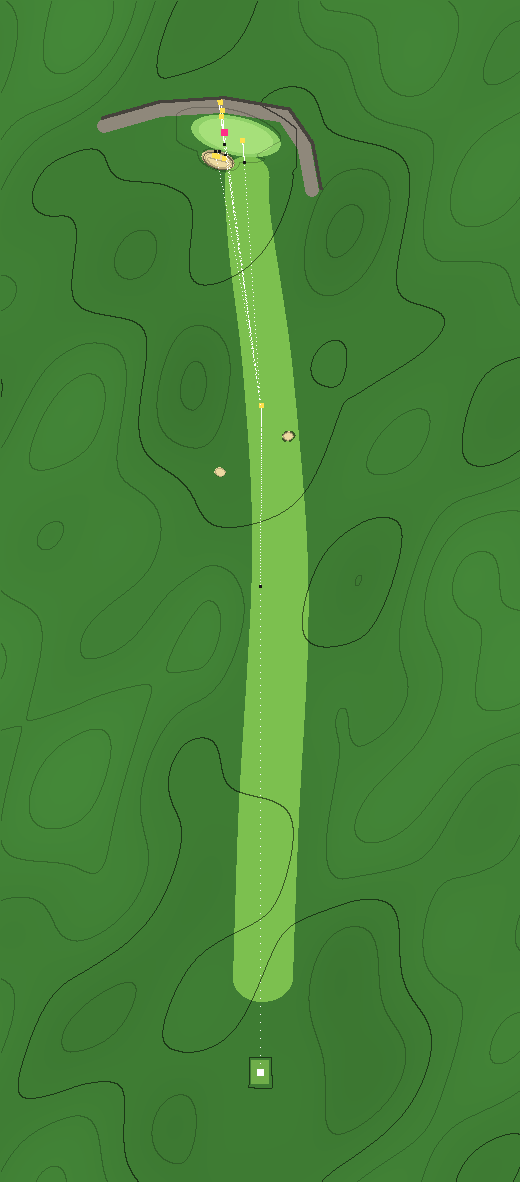
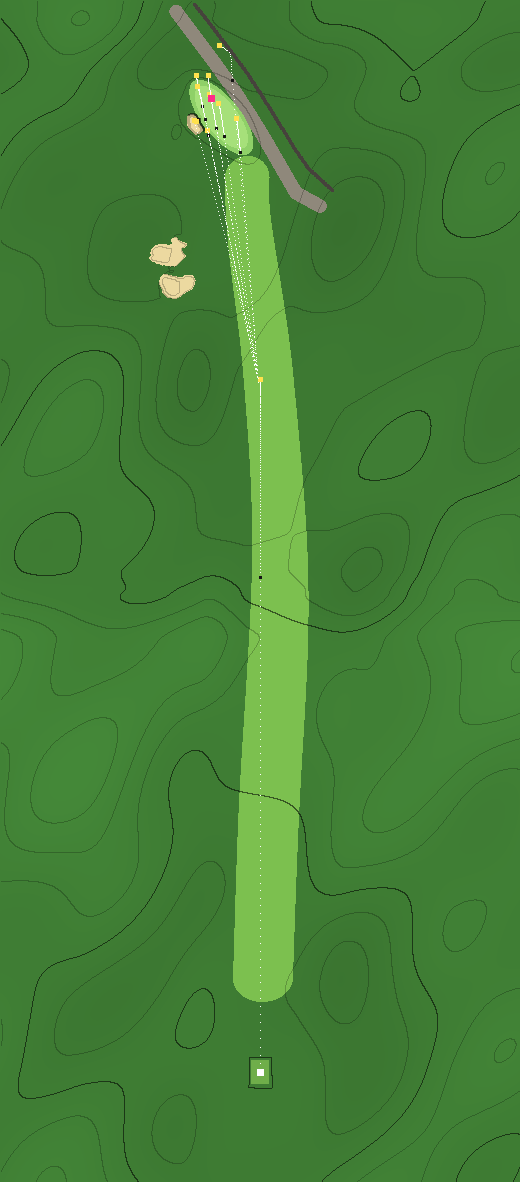
St Andrews 17: the Road Hole from the Scottish lidar
Phase 5 50 cm DTM, framed from the owner's green and tee pins. The Road
Hole bunker is the lidar's 5 m pot at the green's left end, deepened to
2.6 (lip 0.6) to stand in for its revetted face (owner's choice). The
green ellipse is laid along the lidar's plateau with the pin tucked
behind the bunker (owner's choice); the road and wall follow the lidar.
Scholar's and Progressing replace two invented pots. Every check is
re-aimed (spec §6). Highest hop over ten seeds 4.76 -> 2.63: the hop
guard in tests/ball.test.js passes again.

Claude-Session: https://claude.ai/code/session_01L6C3mgW8iMSD9JZeturm7K

diff --git a/tests/hole-checks.js b/tests/hole-checks.js
@@ -90,26 +90,26 @@ module.exports = {
   },
 
   'standrews-17': {
-    challenge: 'A long second into a narrow green on firm links turf: the deep Road Hole bunker eats into the front-left (a ball in it cannot play out forwards) and a hard road and a stone wall sit behind. Land it short and let it run; fly the pin and the road has it.',
+    challenge: 'A long second into a narrow green on firm links turf, angled from front-right to back-left along the road: the deep Road Hole bunker eats into its left end (a ball in it cannot play out forwards), the Sunday pin is tucked behind it, and a hard road and a stone wall sit behind. Land it short and let it run; fly the pin and it runs off the back.',
     shots: [
       { name: 'a pure drive runs out on the firm fairway and leaves a full iron', shot: { club: 'Hammer', at: [0, 300], power: 1 }, expect: { end: 'rest', surf: ['FAIRWAY'], minToPin: 125, maxToPin: 150 } },
-      { name: 'an iron flown right at the pin runs through the green onto the road', shot: { from: [0, 334], club: 'Iron' }, expect: { end: 'rest', surf: ['ROAD'] } },
-      { name: 'carrying the bunker and landing just over it holds the green', shot: { from: [0, 334], club: 'Iron', at: [18, 464] }, expect: { surf: ['GREENS', 'FRINGE'], maxToPin: 10 } },
-      { name: 'the same shot pulled a little drops into the Road Hole bunker', shot: { from: [0, 334], club: 'Iron', at: [18, 464], offset: -0.25 }, expect: { end: 'rest', surf: ['SAND'] } },
-      { name: 'into an 18 mph headwind the same carry falls short, into the bunker', shot: { from: [0, 334], club: 'Iron', at: [18, 464], wind: { mph: 18, dir: 'head' } }, expect: { end: 'rest', surf: ['SAND'] } },
-      { name: 'with an 18 mph tailwind it flies the green into the rough behind', shot: { from: [0, 334], club: 'Iron', at: [18, 464], wind: { mph: 18, dir: 'tail' } }, expect: { end: 'rest', surf: ['ROUGH', 'ROAD'] } },
-      { name: 'a 3-wood run into the back of the green strikes the stone wall and kicks back onto the road', shot: { from: [0, 334], club: '3-Wood', at: [18, 470] }, expect: { end: 'rest', surf: ['ROAD'], wall: true } },
-      { name: 'from the middle of the bunker a wedge at the pin cannot get out forwards', shot: { from: [22, 456], club: 'Wedge' }, expect: { end: 'rest', surf: ['SAND'] } },
-      { name: 'the safe line to the wide front of the green holds it', shot: { from: [0, 334], club: 'Iron', at: [8, 455] }, expect: { surf: ['GREENS'] } },
+      { name: 'an iron flown at the pin runs through the green and off the back', shot: { from: [1, 345], club: 'Iron' }, expect: { end: 'rest', surf: ['ROAD', 'ROUGH'] } },
+      { name: 'landed short of the tucked pin and run up, an iron holds the green', shot: { from: [1, 345], club: 'Iron', at: [22, 472] }, expect: { surf: ['GREENS', 'FRINGE'], maxToPin: 10 } },
+      { name: 'the attack over the bunker\'s edge, pulled a little, drops into the Road Hole bunker', shot: { from: [1, 345], club: 'Iron', at: [27.5, 476.5], offset: -0.25 }, expect: { end: 'rest', surf: ['SAND'] } },
+      { name: 'into an 18 mph headwind the attack comes up short of the green', shot: { from: [1, 345], club: 'Iron', at: [27.5, 476.5], wind: { mph: 18, dir: 'head' } }, expect: { end: 'rest', surf: ['FRINGE', 'ROUGH', 'SAND'], minToPin: 10 } },
+      { name: 'with an 18 mph tailwind it flies the green into the rough behind', shot: { from: [1, 345], club: 'Iron', at: [27.5, 476.5], wind: { mph: 18, dir: 'tail' } }, expect: { end: 'rest', surf: ['ROUGH', 'ROAD'] } },
+      { name: 'a 3-wood landed on the road behind the green strikes the stone wall', shot: { from: [1, 345], club: '3-Wood', at: [14, 496] }, expect: { end: 'rest', surf: ['ROAD', 'ROUGH'], wall: true } },
+      { name: 'from the middle of the bunker a wedge at the pin cannot get out forwards', shot: { from: [32.5, 474.5], club: 'Wedge' }, expect: { end: 'rest', surf: ['SAND'] } },
+      { name: 'the safe line to the wide front of the green holds it', shot: { from: [1, 345], club: 'Iron', at: [10, 460] }, expect: { surf: ['GREENS'] } },
     ],
     strategies: [
       // no per-hole lie costs: the baseline's recovery term charges the Road Hole bunker for its deep face (a ball in it cannot play out forwards, see the shot above)
-      { name: 'the second shot: fly the pin, attack the tucked pin over the bunker, or play to the middle', plans: [
-          { name: 'fly', shot: { from: [0, 334], club: 'Iron' } },
-          { name: 'attack', shot: { from: [0, 334], club: 'Iron', at: [18, 464] } },
-          { name: 'middle', shot: { from: [0, 334], club: 'Iron', at: [8, 455] } } ],
+      { name: 'the second shot: fly the tucked pin, attack it over the bunker\'s edge, or play to the middle and run up', plans: [
+          { name: 'fly', shot: { from: [1, 345], club: 'Iron' } },
+          { name: 'attack', shot: { from: [1, 345], club: 'Iron', at: [27.5, 476.5] } },
+          { name: 'middle', shot: { from: [1, 345], club: 'Iron', at: [18, 468] } } ],
         expect: [
-          ['flying the pin puts a sharp player on the road more often than not', r => (r.fly.sharp.surfs.ROAD || 0) > 10],
+          ['flying the pin runs off the back: a sharp player holds the green less than half the time', r => (r.fly.sharp.surfs.GREENS || 0) * 2 < r.fly.sharp.n],
           ['it is the worst plan for both players', r => ['sharp', 'shaky'].every(k => r.fly[k].score > r.attack[k].score && r.fly[k].score > r.middle[k].score)],
           ['attacking the tucked pin puts even a sharp player in the bunker at least one time in five', r => (r.attack.sharp.surfs.SAND || 0) >= 4],
           ['the middle of the green is the play: a sharp player holds it four times in five and it beats the attack', r => (r.middle.sharp.surfs.GREENS || 0) >= 17 && r.middle.sharp.score < r.attack.sharp.score],

diff --git a/index.html b/index.html
@@ -547,14 +547,21 @@ const HOLES=[
   seed:3.3,roll:0.8,ridge:1.5,
   route:[[0,0],[120,-4],[250,-10],[350,-4],[430,6],[467,6]],
   fw:[[40,15],[200,15],[300,13],[400,12],[438,11],[466,12]],fairway:[[35,458]],
-  green:{x:12,z:468,rx:19,rz:8,rot:0.22},pin:{x:18,z:470},tilt:{x:0.012,z:0.02},
+  // no aerial yet: the ellipse is laid along the lidar's plateau (front-right to back-left, its back edge 2-3 yd short of the drop to the road); tilt is the lidar's plane over it
+  green:{x:19.3,z:477.3,rx:19,rz:8,rot:0.9},pin:{x:24.5,z:487.1},tilt:{x:-0.0124,z:0.0007},   // the pin tucked on the left end, behind the Road Hole bunker
   features:[
-    {type:'rise',area:{x:12,z:468,rx:21,rz:10,rot:0.22},dh:1.1,edge:9},       // a narrow plateau green: the front and sides fall away to the apron
-    {type:'cover',area:{pts:[[-26,441],[-22,463],[-12,478],[18,483],[50,481],[78,473]],w:3.4},surf:'ROAD',over:['ROUGH','FAIRWAY']},  // the road runs round the right and along the back of the green
+    // heights along the line from the Scottish lidar (Phase 5, 50 cm; lidar.py build, docs/holes/trace/standrews-17.json): links ground within a yard of flat
+    {type:'ramp',z0:0,z1:48,dh:-0.6},{type:'ramp',z0:48,z1:215.8,dh:1.03},{type:'ramp',z0:215.8,z1:239.8,dh:-1.46},{type:'ramp',z0:239.8,z1:251.8,dh:-0.35},
+    {type:'ramp',z0:251.8,z1:299.8,dh:0.47},{type:'ramp',z0:299.8,z1:431.7,dh:-0.82},{type:'ramp',z0:479.6,z1:503.6,dh:-0.82},{type:'ramp',z0:503.6,z1:527.6,dh:0.92},
+    {type:'rise',area:{x:19.3,z:477.3,rx:21,rz:10,rot:0.9},dh:0.8,edge:9},       // a narrow plateau green, 0.7 m above its apron (lidar; build's 431.7-479.6 ramp, +1, is this rise): the front and sides fall away
+    {type:'cover',area:{pts:[[-30,433],[-18,439.5],[-10.1,453.2],[-2.2,466.9],[6,480.2],[14.6,493.2],[23.5,505.7],[32.7,517.9],[41.9,530.2]],w:3.4},surf:'ROAD',over:['ROUGH','FAIRWAY']},  // the road behind the green, on the lidar's flat strip below the green's back edge
   ],
-  obstacles:[{type:'wall',pts:[[-30.3,441.8],[-26.1,464.6],[-14.4,481.7],[17.8,487.4],[50.7,485.3],[79.2,477.2]],t:1.2,h:2.2,e:0.3}],   // the stone wall behind the road
+  obstacles:[{type:'wall',pts:[[-36,441],[-24,452],[-17.4,461.4],[-9.2,474.7],[-0.9,488.1],[7.6,501],[16.8,513.2],[26.1,525.4],[33,534]],t:1.2,h:2.2,e:0.3}],   // the stone wall beyond the road, at the foot of the lidar's rise
   play:{firm:1.5,wind:[8,20],windPush:1.6,greens:{speed:1.15,firm:1.3}},
-  bunkers:[{x:21,z:456,rx:9,rz:4.8,rot:0.3,depth:2.8,lip:0.9},{x:20,z:300,rx:3,rz:2.4,rot:0.2,depth:1.4,lip:0.4},{x:-14,z:318,rx:3,rz:2.4,rot:-0.2,depth:1.4,lip:0.4}],
+  // bunkers from the lidar: the Road Hole bunker (place and shape from the lidar, a 5 m pot 1.4 m below the green; deepened to 2.6 with a 0.6 lip to stand in for its revetted face, §5), and Scholar's and Progressing short-left (named on the yardage book)
+  bunkers:[{pts:[[34.5,479.2],[32.5,478.8],[31.2,477],[30.2,476.5],[30.2,474.5],[28.2,471.5],[28.2,471],[30.5,468.8],[31.5,468.8],[32,468.2],[36.2,472],[36.2,473],[36.8,473.5],[36.2,474],[36.8,474.5],[36.8,478]],depth:2.6,lip:0.6},
+           {pts:[[46.5,399.8],[45.5,398.8],[41.5,398.2],[41,397.8],[39,397.8],[37.5,398.8],[34,398.8],[33,398.2],[31.8,396],[32.8,392.5],[34,390.8],[36.5,389.8],[39,387.8],[42,386.2],[46.5,386.8],[49.2,389.5],[49.2,391],[50.8,394],[50.8,395.5],[49.8,398],[48.5,399.2],[47,399.2]],depth:1.17,lip:0.25},
+           {pts:[[43,417.8],[41.5,417.8],[40.5,416.2],[36.2,414.5],[36.2,413],[37.5,411.8],[38.8,411.5],[38.2,410],[36.2,408],[41,403.2],[43,402.2],[43.5,402.8],[45,402.2],[45.5,402.8],[47.5,402.8],[48,403.2],[48.5,402.8],[50.5,403.8],[52,403.8],[53,404.8],[54,404.8],[55.8,406.5],[55.8,407.5],[54.8,408.5],[55.2,409],[54.8,411.5],[52.5,413.8],[51.5,413.8],[51,414.2],[46.5,414.2],[46,413.8],[44.5,414.2],[44.2,414.5],[45.2,416]],depth:0.72,lip:0.25}],
   water:[],
   clubhouse:{x:-95,z:120,rot:0},
   bbox:{x0:-130,x1:130,z0:-55,z1:536},

diff --git a/tests/holes.test.js b/tests/holes.test.js
@@ -256,7 +256,7 @@ test('recovery: short-sided means a pin near the edge the ball is on; it needs a
 test('recovery: on the real holes, the Road Hole bunker pays the most, ordinary bunkers and fairway lay-ups almost nothing', () => {
   course.prepHole(idx('standrews-17'));
   const road = course.BUNKERS.find(b => b.depth > 2);
-  assert.ok(recovery(course, { x: road.x, z: road.z }, 'SAND') >= 0.9 * RECOVERY.cap, 'a ball in the pot bunker whose face is the whole story');
+  assert.ok(recovery(course, { x: road.x, z: road.z }, 'SAND') >= 0.7 * RECOVERY.cap, 'a ball in the pot bunker whose face is the whole story (0.75 of the cap since the lidar rebuild: a 5 m pot, not the old 18 yd bowl)');
   course.prepHole(idx('pebble-8'));
   const bunker = (x, z) => course.BUNKERS.find(b => b.x === x && b.z === z);
   const near = (x, z) => course.BUNKERS.reduce((a, b) => Math.hypot(b.x - x, b.z - z) < Math.hypot(a.x - x, a.z - z) ? b : a);
@@ -270,14 +270,14 @@ test('recovery: on the real holes, the Road Hole bunker pays the most, ordinary 
 
 test('recovery: expected() adds it for balls off the green, opts.recovery=false removes it, and evaluate() reports the mean charge', () => {
   course.prepHole(idx('standrews-17'));
-  const shot = { from: [0, 334], club: 'Iron', at: [18, 464] };
+  const shot = { from: [1, 345], club: 'Iron', at: [27.5, 476.5] };
   const on = evaluate(course, shot, 0.55, 9), off = evaluate(course, shot, 0.55, 9, null, { recovery: false });
   assert.ok(on.recovery > 0 && off.recovery === 0);
   assert.equal(on.hazard, 0);
   assert.ok(Math.abs((on.score - off.score) - on.recovery) < 1e-9, 'with no water or holed balls the score differs by exactly the mean charge');
-  const r = { end: 'rest', surf: 'SAND', p: { x: 21, z: 456 }, toPin: Math.hypot(21 - course.PIN.x, 456 - course.PIN.z) };
-  assert.ok(expected(course, r, { x: 0, z: 334 }) > expected(course, r, { x: 0, z: 334 }, undefined, { recovery: false }));
-  assert.equal(expected(course, { ...r, surf: 'GREENS' }, { x: 0, z: 334 }), expected(course, { ...r, surf: 'GREENS' }, { x: 0, z: 334 }, undefined, { recovery: false }));
+  const r = { end: 'rest', surf: 'SAND', p: { x: 32.5, z: 474.5 }, toPin: Math.hypot(32.5 - course.PIN.x, 474.5 - course.PIN.z) };   // in the Road Hole bunker
+  assert.ok(expected(course, r, { x: 1, z: 345 }) > expected(course, r, { x: 1, z: 345 }, undefined, { recovery: false }));
+  assert.equal(expected(course, { ...r, surf: 'GREENS' }, { x: 1, z: 345 }), expected(course, { ...r, surf: 'GREENS' }, { x: 1, z: 345 }, undefined, { recovery: false }));
 });
 
 test('rolling start: a ball landing on a steep slope never rolls faster than the model\'s speed cap', () => {

diff --git a/tests/tools.test.js b/tests/tools.test.js
@@ -15,7 +15,7 @@ const node = (tool, argv) => spawnSync(process.execPath, [path.join(__dirname, '
 const tmp = fs.mkdtempSync(path.join(os.tmpdir(), 'fred-tools-'));
 
 test('probe: prints what hole-play.js plays, as JSON, for one shot or several; bad input is refused', () => {
-  const shots = [{ from: [0, 334], club: 'Iron', at: [18, 464] }, { from: [0, 334], club: 'Iron', at: [18, 464], offset: -0.25 }];
+  const shots = [{ from: [1, 345], club: 'Iron', at: [27.5, 476.5] }, { from: [1, 345], club: 'Iron', at: [27.5, 476.5], offset: -0.25 }];
   const r = node('probe.js', ['standrews-17', JSON.stringify(shots), '--json']);
   assert.equal(r.status, 0, r.stderr);
   const rows = JSON.parse(r.stdout);

diff --git a/docs/holes/standrews-17.md b/docs/holes/standrews-17.md
@@ -6,7 +6,7 @@
 |---|---|
 | Real hole | St Andrews Old Course, hole 17, the Road Hole |
 | Par / yardage (real) | Par 4, about 495 yards (lengthened for recent Opens) |
-| Par / yardage (game) | Par 4, 470 yards tee → pin. A pure driver leaves about 138 yards on the firm fairway; reaching in two takes a driver and a long second. |
+| Par / yardage (game) | Par 4, 488 yards tee → pin since the lidar rebuild moved the pin behind the bunker (470 before; the card still says 470). A pure driver leaves about 138 yards on the firm fairway; reaching in two takes a driver and a long second. |
 | Sources | See below |
 
 - [golf.com — Inside the Old Course's Road Hole](https://golf.com/travel/inside-oid-course-road-hole-st-andrews/?amp=1)
@@ -42,11 +42,13 @@
 
 | Real feature | Game expression | Parameters | What it does to play |
 |---|---|---|---|
-| Road Hole Bunker | bunker | `depth:2.8, lip:0.9`, front-left, overlapping the green edge | Very deep; escapes sideways but not forwards |
-| The road | **new** `ROAD` surface via a `cover` band | around the right and back of the green, `w:3.4`, `over:['ROUGH','FAIRWAY']` | Hard and fast: balls skip and roll out |
-| The wall | **new** `wall` obstacle (generic `OBSTACLES` registry) | behind the road, `t:1.2, h:2.2, e:0.3` | Stops balls in flight and on the roll; kicks them back |
+| Road Hole Bunker | bunker, outline from the lidar (a 5 m pot cutting into the green's left end) | `depth:2.6, lip:0.6` (§5) | Very deep; escapes sideways but not forwards |
+| The green | ellipse laid along the lidar's plateau (no aerial yet) | 38 × 16 yd, rotated 0.9 rad: front-right to back-left along the road; `tilt` from the lidar plane (1.2 % down to the left) | A long, narrow, angled target |
+| Heights | `ramp`s from the lidar and a 0.8 yd `rise` under the green | links ground within a yard of flat; the green 0.7 m above its apron | |
+| The road | **new** `ROAD` surface via a `cover` band | on the lidar's flat strip below the green's back edge, from the right of the green diagonally behind it, `w:3.4`, `over:['ROUGH','FAIRWAY']` | Hard and fast: balls skip and roll out |
+| The wall | **new** `wall` obstacle (generic `OBSTACLES` registry) | at the foot of the lidar's rise beyond the road, `t:1.2, h:2.2, e:0.3` | Stops balls in flight and on the roll; kicks them back |
 | Firm links turf and wind | play profile | `firm:1.5, wind:[8,20], windPush:1.6, greens:{speed:1.15, firm:1.3}` | Run-out everywhere |
-| Fairway pot bunkers | bunkers | two small, at (20,300) and (-14,318) | Positional |
+| Scholar's and Progressing bunkers | bunkers, outlines from the lidar (named on the yardage book) | short-left of the green, 1.0 and 0.6 m deep | Positional; the two invented fairway pots are gone (no hollows there) |
 | Dunes | `theme:'links'` backdrop | | Golden dunes behind |
 
 **Capability gaps**: the blind drive over the hotel/sheds corner and the out-of-bounds line along the hotel are not expressed. The game has no blind shots and no OB along a side, so the drive is a plain fairway shot.
@@ -55,33 +57,34 @@
 
 | Characteristic | Real | Game | Why this amount |
 |---|---|---|---|
-| Length | 495 yd | 470 yd | A pure driver plus a full iron is just reachable with a long second |
+| Length | 495 yd | 488 yd | A pure driver plus a full iron is just reachable with a long second |
 | Firmness | firm | `firm:1.5`, greens firm 1.3 | The run-out is the point: a flown pin ball runs through to the road |
-| Road Hole Bunker depth | very deep | depth 2.8, lip 0.9 | Deep enough that the forward escape fails; 3.4/1.1 was an inescapable bowl (a soft lock) so it was backed off |
+| Road Hole Bunker depth | 1.4 m below the green, 1.8 m below its back face, the face revetted (near vertical) | depth 2.6, lip 0.6 (the lidar's 1.6 yd ×1.6) | The game has no revetted face: at the lidar's depth a wedge from the middle flies out (it holed out on the probe). 2.6/0.6 is the least that keeps the forward escape failing, standing in for the face (the owner's choice, 2026-10-20) |
+| Pin | the Sunday pin, tucked behind the bunker | (24.5, 487.1): the card reads 488 tee → pin, not 470 | The attack-over-the-bunker decision needs a pin beyond it, and the lidar puts the bunker at the green's left end, not in front of the old pin (the owner's choice) |
 | Road | tarmac | ROAD: e .36, mu .16, dec 5.0 | A wedge rolls ~6 yd, an iron ~17 on it (fairway: 3 and 7) |
 | Wall | stone, ~1.5 m | height 2.2 yd, restitution 0.3 | Reads as solid; makes the back of the green a real penalty |
 
 Simplified: the hotel, the sheds and the out-of-bounds line are left out.
 
-**Realism bounds** (`node tests/tools/slope.js standrews-17`, `docs/maps/standrews-17-slope.png`): one gentle plane (`tilt` 2.3 %), 100 % of the surface in the 1–2.5 % band, no steep ring and not a dome; "flat pockets" reads WARN. The green's contours are mild by §3's own account; the hole is decided by the bunker, the road and the wall, not by putting, so the green is left as it is.
+**Realism bounds** (`node tests/tools/slope.js standrews-17`, `docs/maps/standrews-17-slope.png`): one gentle plane (the lidar's, 1.2 %), 100 % of the surface in the 1–2.5 % band, no steep ring and not a dome; "flat pockets" reads WARN. The green's contours are mild by §3's own account; the hole is decided by the bunker, the road and the wall, not by putting, so the green is left as it is.
 
 ## 6. Validation — the contract
 
 | Shot | Expected |
 |---|---|
-| A pure drive runs out on the firm fairway | Fairway, a full iron left |
-| An iron flown right at the pin | Runs through onto the ROAD |
-| Carrying the bunker and landing just over | Holds the green or its edge |
-| The same shot pulled a little | The Road Hole bunker |
-| Into an 18 mph headwind, the same carry | Falls short, into the bunker |
-| With an 18 mph tailwind | Flies the green into the rough behind |
-| A 3-wood run into the back | Strikes the stone wall and kicks back |
+| A pure drive runs out on the firm fairway | Fairway, a full iron left (125–150) |
+| An iron flown at the pin, from (1, 345) | Runs through the green and off the back |
+| Landed short of the tucked pin and run up, at (22, 472) | Holds the green, ≤ 10 yd |
+| The attack over the bunker's edge (27.5, 476.5), pulled a little | The Road Hole bunker |
+| Into an 18 mph headwind, the attack | Comes up short of the green |
+| With an 18 mph tailwind, the attack | Flies the green into the rough behind |
+| A 3-wood landed on the road behind the green | Strikes the stone wall |
 | A wedge from the middle of the bunker at the pin | Cannot get out forwards |
-| The safe line to the wide front | Holds the green |
+| The safe line to the wide front, (10, 460) | Holds the green |
 
 | Decision | Plans | Must hold |
 |---|---|---|
-| The second shot | fly the pin / attack the tucked pin / play to the middle | Flying it is the worst plan for sharp and shaky players (it puts a sharp player on the road 15 times in 21); attacking puts even a sharp player in the bunker at least one time in five; the middle is the best plan for a sharp player (81 % on the green) and keeps a shaky player out of the bunker twice as often as attacking. No per-hole lie costs: the baseline's recovery term charges a ball in the Road Hole bunker for its face. |
+| The second shot | fly the tucked pin / attack it over the bunker's edge / play to the middle and run up | Flying it holds the green less than half the time for a sharp player (never, now: it runs off the back) and is the worst plan for both players; attacking puts even a sharp player in the bunker at least one time in five (4 in 21); the middle holds a sharp player 21 times in 21, beats the attack, and keeps a shaky player out of the bunker twice as often. |
 
 **Honest note**: this hole's geometry was tuned with scratch probes before its checks were written, contrary to the workflow. The checks were then written against the tuned hole and pass. Holes 5 and 6 had their checks written first.
 
@@ -90,35 +93,74 @@ Simplified: the hotel, the sheds and the out-of-bounds line are left out.
 | Check | Was | Now | Why |
 |---|---|---|---|
 | The second shot (strategy) | `lieAdd: { SAND: 1.0 }`: any sand lie costs a full stroke | no `lieAdd` | The baseline gained a recovery-difficulty term that charges a ball short of a steep face. In the Road Hole bunker (the ground rises 4.1 yd between the ball and the pin line, so the raw charge is 1.10) it reaches its 1.0 cap on top of sand's 0.35, so the bunker now costs 1.35 where the hack gave 1.0. Every expectation holds without the override. The four plans that end in sand or at the foot of the bank score 0.06–0.10 more than before (fly shaky 3.62 → 3.71, attack sharp 3.25 → 3.33, attack shaky 3.45 → 3.56, middle shaky 3.47 → 3.53); fly and middle for a sharp player are unchanged. The order is the same for a sharp player (middle < attack < fly in strokes); for a shaky player attack and middle swap by 0.03 (attack 3.45 vs middle 3.47 before, middle 3.53 vs attack 3.56 now): the middle is the better plan for both, and fly is still the worst |
+| All nine shots and the strategy (2026-10-20, lidar rebuild) | from (0, 334), the bunker in front of the pin at (21, 456), the pin at (18, 470) | from (1, 345), the bunker at the green's left end (32.9, 473.8), the pin tucked behind it at (24.5, 487.1) | The Scottish lidar puts the Road Hole bunker 15 yd left of the old pin, cutting into the green's left end; the owner chose to move the pin to the Sunday spot behind it so the attack-over-the-bunker decision survives. (1, 345) is where the pure drive now stops. Each shot keeps its meaning, re-aimed: the attack line is (27.5, 476.5), the bunker's edge (aimscan: 4 sharp shots in 21 in the sand), and "middle" is (18, 468) |
+| An iron flown at the pin | runs through onto the road | runs through the green and off the back (road or rough) | The lidar's road runs diagonally behind the green, 12 yd behind the tucked pin; balls flown at it stop in the rough strip short of the road |
+| Flying the pin (strategy) | puts a sharp player on the road more than 10 times in 21 | holds the green less than half the time | Same: it runs off the back, but into the rough before the road |
+| A 3-wood into the back of the green | strikes the wall and kicks back onto the road | landed on the road, strikes the wall (rest on the road or the rough) | The wall kicks it back across the road into the rough strip |
+| The middle of the bunker (wedge check) | (22, 456) | (32.5, 474.5) | The bunker moved |
+| `tests/holes.test.js` recovery tests, `tests/tools.test.js` probe test | the old bunker, start and aim; the Road Hole bunker at ≥ 0.9 of the recovery cap | the new ones; ≥ 0.7 of the cap (it is 0.75) | A 5 m pot has less face around the ball than the old 18 × 10 yd bowl |
 
 ## 7. Results
 
+`node tests/hole-report.js --hole=standrews-17` after the lidar rebuild:
+
 ```
-=== St Andrews Old Course (standrews-17) — A long second into a narrow green on firm links turf: the deep Road Hole bunker eats into the front-left (a ball in it cannot play out forwards) and a hard road and a stone wall sit behind. Land it short and let it run; fly the pin and the road has it.
+=== St Andrews Old Course (standrews-17) — A long second into a narrow green on firm links turf, angled from front-right to back-left along the road: the deep Road Hole bunker eats into its left end (a ball in it cannot play out forwards), the Sunday pin is tucked behind it, and a hard road and a stone wall sit behind. Land it short and let it run; fly the pin and it runs off the back.
 shot                                                                           before           after
-a pure drive runs out on the firm fairway and leaves a full iron               FAIRWAY 181y     FAIRWAY 138y
-an iron flown right at the pin runs through the green onto the road            GREENS 0y        ROAD 11y
-carrying the bunker and landing just over it holds the green                   GREENS 1y        FRINGE 8y
-the same shot pulled a little drops into the Road Hole bunker                  ROUGH 11y        SAND 12y
-into an 18 mph headwind the same carry falls short, into the bunker            GREENS 6y        SAND 13y
-with an 18 mph tailwind it flies the green into the rough behind               GREENS 5y        ROUGH 16y
-a 3-wood run into the back of the green strikes the stone wall and kicks back  ROUGH 13y        ROAD 15y
-from the middle of the bunker a wedge at the pin cannot get out forwards       GREENS 0y        SAND 13y
-the safe line to the wide front of the green holds it                          GREENS 11y       GREENS 10y
+a pure drive runs out on the firm fairway and leaves a full iron               FAIRWAY 198y     FAIRWAY 143y
+an iron flown at the pin runs through the green and off the back               GREENS 0y        ROUGH 11y
+landed short of the tucked pin and run up, an iron holds the green             GREENS 8y        GREENS 2y
+the attack over the bunker's edge, pulled a little, drops into the Road Hole   ROUGH 17y        SAND 14y
+into an 18 mph headwind the attack comes up short of the green                 GREENS 10y       FRINGE 16y
+with an 18 mph tailwind it flies the green into the rough behind               GREENS 7y        ROUGH 14y
+a 3-wood landed on the road behind the green strikes the stone wall            ROUGH 18y        ROUGH 27y
+from the middle of the bunker a wedge at the pin cannot get out forwards       GREENS 1y        SAND 14y
+the safe line to the wide front of the green holds it                          GREENS 26y       GREENS 16y
 
-  strategy: the second shot: fly the pin, attack the tucked pin over the bunker, or play to the middle
+  strategy: the second shot: fly the tucked pin, attack it over the bunker's edge, or play to the middle and run up
   plan       skill   before: wet green score   after: wet green score
-  fly        sharp           0% 100% 2.63              0%   0% 3.52
-  fly        shaky           0%  76% 2.89              0%  14% 3.71
-  attack     sharp           0%  90% 2.45              0%  24% 3.33
-  attack     shaky           0%  57% 3.00              0%  29% 3.56
-  middle     sharp           0%  81% 3.12              0%  81% 3.11
-  middle     shaky           0%  24% 3.36              0%  33% 3.53
+  fly        sharp           0%  33% 2.68              0%   0% 3.37
+  fly        shaky           0%  24% 2.95              0%   0% 3.58
+  attack     sharp           0%  76% 2.94              0%  33% 3.30
+  attack     shaky           0%  62% 3.19              0%  38% 3.30
+  middle     sharp           0%  90% 3.15              0% 100% 2.77
+  middle     shaky           0%  52% 3.37              0%  52% 3.21
+
+"score" = expected strokes for the whole hole from that moment (tour-style baseline; water/OB = stroke and distance).
 ```
 
-"Before" is the same land and green with no features, play profile, wall, road or bunkers. Expected strokes ("score") come from the baseline in `tests/hole-play.js`, including its recovery-difficulty term (see `docs/ICONIC-HOLES.md`), so they differ slightly from earlier pastes of this table.
+## 8. Review — does it look like the hole?
 
-## 8. Visual review — does it look like the hole?
+**Fast lane, lidar** (2026-10-20). Bunkers, the road and wall lines, heights and the green's plane from the Scottish lidar; the green is still an ellipse (no aerial), laid along the lidar's plateau.
+
+**References used**: Scottish Public Sector LiDAR Phase 5, 50 cm DTM, tiles NO41NE and NO51NW (Open Government Licence v3; not in the repo); map pins from the project owner on the green and the back tee; two yardage-book pages (`standrews-17-yardage-1.jpg`, `-2.jpg`, not in the repo) — direction and the bunkers' names, not traced. Frame: `docs/holes/trace/standrews-17.json` (tee → pin 405 m at 140.9°; 1.161 game yd per m).
+
+**What changed**
+
+| Item | Was | Now |
+|---|---|---|
+| Road Hole bunker | an 18 × 10 yd bowl in front of the pin, 2.8 deep, lip 0.9 | the lidar's 5 m pot at the green's left end, 2.6 deep, lip 0.6 (§5) |
+| Green and pin | ellipse rotated 0.22 rad; pin (18, 470) | laid along the lidar's plateau, rotated 0.9 rad; the pin tucked behind the bunker at (24.5, 487.1) |
+| Road and wall | wrapped round the back of the green at z ≈ 483 | on the lidar's flat strip and rise: diagonally behind the green |
+| Fairway bunkers | two invented pots | Scholar's and Progressing, short-left (lidar) |
+| Highest hop, ten seeds (from the first touchdown) | 4.76 yd (the guard's own seed: a 31° grass bank at the old bunker's lip) | 2.63 yd; `tests/ball.test.js` passes |
+
+**Renders**: `docs/maps/standrews-17-tee.png`, `docs/maps/standrews-17-aerial.png`.
+
+**Verdict**
+- Tee and direction: **matches** (the owner's two pins and both yardage pages).
+- Heights: **matches** (lidar).
+- Green: **close** — placed and angled on the lidar's plateau, but an ellipse.
+- Bunkers: **matches** for place; the Road Hole bunker's depth **differs on purpose** (§5).
+- Road and wall: **matches** for their line (lidar); the hotel, sheds and OB are still not expressed.
+
+**Open items**
+1. An aerial of the green: trace its outline (the real green wraps round the bunker).
+2. A revetted-face primitive, so the Road Hole bunker can take its real depth.
+3. The hole card shows 470; the tee → pin is now 488.
+
+### Earlier review-only pass
+
 
 **Review-only pass, no reference image yet** (2026-10-19). The verdicts below compare the game's renders (`python3 tests/tools/render.py standrews-17 tee bird approach green aerial`; the green-complex view is committed as `docs/maps/standrews-17-aerial.png`) with this spec's sources and what is widely known of the hole. Nothing here was traced, so no shape is measured: "close" means the parts are there and in the right places, not that their sizes are right, and every **no reference** row waits for a photo. The step and its tools: `docs/ICONIC-HOLES.md` §2, step 7.
 

diff --git a/docs/ICONIC-HOLES.md b/docs/ICONIC-HOLES.md
@@ -210,7 +210,7 @@ Chosen because they share almost nothing:
 | [Pebble Beach No. 8](holes/pebble-8.md) | Distance control off the tee, then a forced carry over a chasm | the coastline and heights **from the 2017-18 lidar**; the green and five bunkers **traced on a drone photo placed by a homography on their lidar hollows**; the sea brought in under the bank short-right (§5) | **fast lane, lidar + photo** |
 | [Augusta No. 13](holes/augusta-13.md) | Risk/reward from a sidehill lie: go for it over the creek or lay up | the tributary, bunkers and heights from the corner on **from the 2018 lidar**; the green **traced on a rendering placed by its four lidar bunkers**; `ramp` (speed slot, §5), `tilt` + StanceModel | **fast lane, lidar**: the frame holds the second leg only (the real dogleg is sharp) |
 | [TPC Sawgrass No. 17](holes/sawgrass-17.md) | Pure distance/direction control to an island, in the wind | the lake, island, walkway and heights **from the lidar**; the green and a pot bunker (×2 on purpose) **traced on an aerial placed by the lidar**; a mound round the bunker; `windPush` | **traced and signed off**: 2018 USGS lidar + aerial (matched, IoU 0.905) + tee photo (checks the direction to 2.5 px) |
-| [St Andrews Old Course No. 17](holes/standrews-17.md) | Run-out to a green with a deep pot bunker, a road and a wall behind, on firm turf in wind | `ROAD`, `wall` obstacle, deep bunker, `firm`, wind | review-only: no photo yet |
+| [St Andrews Old Course No. 17](holes/standrews-17.md) | Run-out to a green with a deep pot bunker, a road and a wall behind, on firm turf in wind | the Road Hole bunker, the road and wall lines, Scholar's and Progressing bunkers and the heights **from the Scottish lidar** (Phase 5, 50 cm); the bunker deepened to stand in for its revetted face (§5); `ROAD`, `wall`, `firm`, wind | **fast lane, lidar**: green an ellipse laid on the lidar's plateau (no aerial) |
 | [Augusta National No. 12](holes/augusta-12.md) | Distance control over a creek to a shallow, wide, angled green in swirling wind | Rae's Creek, three bunkers and the heights **from the 2018 lidar**; the green **traced on a drawing placed by its lidar bunkers**; `windPush` | **fast lane, lidar** |
 | [Pinehurst No. 2, No. 5](holes/pinehurst-5.md) | Par 5: go for an elevated plateau green from a sidehill lie, or lay up and wedge onto the top | heights and the fairway's slant (falling left: ball above the feet) **from the 2003 NC DEM** (3.4 m, no 1 m lidar here); plateau `hollow` (`flat`), runoffs + `WASTE` | **fast lane, coarse heights**: bunkers, waste and green unmeasured |
 | [Riviera No. 6](holes/riviera-6.md) | Par 3: the decision is the pin, not the club: a bunker in the middle of the green, a tier between the two pin areas, a big bunker short and small ones behind and off the left end | the green and four bunkers **traced from two photos and sized by lidar** (the middle bunker ×2 on purpose), heights from the lidar (`ramp` ×4: a dip short of the green, the bank behind it), `step` + `hollow` + `tilt` on the green | **traced and signed off**: aerial + tee photo (rms 1.1 px) + 2025 USGS lidar |
@@ -221,11 +221,11 @@ Riviera No. 6 and Sawgrass No. 17 were reviewed against photos and lidar; the ot
 
 | # | Gap | Holes | Kind | Changes play? | Next step |
 |---|---|---|---|---|---|
-| 1 | **Green and bunker shapes are written-source guesses.** On Riviera the tracing found the green 50 % too big, the middle bunker 3.5 × too wide, the back bunker 4.6 × too big, the "front-left" bunker 12 yd out of place and a fourth bunker missing. Sawgrass No. 17 traced from lidar and an aerial: the island a quarter smaller than its ellipse, the green a heart 5.6 yd further left, the pot bunker 11 yd left of where it was, on the line to the pin. The other five greens and their bunkers are still ellipses placed from words | the five untraced | **expressible now** (traced outlines) | yes: the shot each hole is about; checks may need retuning, as Riviera's did | lidar first (shapes and positions of the bunkers, the hole's direction), then an aerial of each green complex; trace, re-run the hole's checks. Order: ~~Sawgrass 17~~ (done); ~~Augusta 12, Augusta 13~~ (lidar bunkers, greens traced on drawings placed by them); ~~Pebble 8~~ (green and five bunkers traced on a drone photo placed on the lidar); Pinehurst 5 waits for 1 m lidar (NC 2015, `sdd.nc.gov`); St Andrews for the Scottish lidar. `lidar.py` does the lidar half from a map pin |
-| 2 | **Heights are design guesses.** ~~Riviera's tee, the dip and the bank behind the green~~ (built from the 2025 lidar: the "raised tee" was the dip in front of it); Pebble's climb, chasm and green knoll; the fall into Augusta No. 13's corner; Pinehurst's rise. A photo taken from 120 yd or more cannot measure them (Riviera's tee-photo fit runs away when asked) | Riviera, Pebble, Augusta 13, Pinehurst | expressible (`ramp`, `rise`); **data: lidar** (USGS for the US holes, Scottish public lidar for St Andrews; §2.1) | yes | ~~Augusta 13~~ (from the corner on; its drive keeps a designed speed slot), ~~Pebble~~ (lidar), ~~Pinehurst~~ (2003 3.4 m DEM: the fairway slants the other way); St Andrews waits for the Scottish lidar. Heights run along the hole only, so a sideways bank (Pebble's fall to the sea right of the green) cannot be expressed yet |
+| 1 | **Green and bunker shapes are written-source guesses.** On Riviera the tracing found the green 50 % too big, the middle bunker 3.5 × too wide, the back bunker 4.6 × too big, the "front-left" bunker 12 yd out of place and a fourth bunker missing. Sawgrass No. 17 traced from lidar and an aerial: the island a quarter smaller than its ellipse, the green a heart 5.6 yd further left, the pot bunker 11 yd left of where it was, on the line to the pin. The other five greens and their bunkers are still ellipses placed from words | the five untraced | **expressible now** (traced outlines) | yes: the shot each hole is about; checks may need retuning, as Riviera's did | lidar first (shapes and positions of the bunkers, the hole's direction), then an aerial of each green complex; trace, re-run the hole's checks. Order: ~~Sawgrass 17~~ (done); ~~Augusta 12, Augusta 13~~ (lidar bunkers, greens traced on drawings placed by them); ~~Pebble 8~~ (green and five bunkers traced on a drone photo placed on the lidar); ~~St Andrews~~ (Scottish lidar; green still an ellipse). Pinehurst 5 waits for 1 m lidar (NC 2015, `sdd.nc.gov`). `lidar.py` does the lidar half from a map pin |
+| 2 | **Heights are design guesses.** ~~Riviera's tee, the dip and the bank behind the green~~ (built from the 2025 lidar: the "raised tee" was the dip in front of it); Pebble's climb, chasm and green knoll; the fall into Augusta No. 13's corner; Pinehurst's rise. A photo taken from 120 yd or more cannot measure them (Riviera's tee-photo fit runs away when asked) | Riviera, Pebble, Augusta 13, Pinehurst | expressible (`ramp`, `rise`); **data: lidar** (USGS for the US holes, Scottish public lidar for St Andrews; §2.1) | yes | ~~Augusta 13~~ (from the corner on; its drive keeps a designed speed slot), ~~Pebble~~ (lidar), ~~Pinehurst~~ (2003 3.4 m DEM: the fairway slants the other way), ~~St Andrews~~ (Scottish lidar). Heights run along the hole only, so a sideways bank (Pebble's fall to the sea right of the green) cannot be expressed yet |
 | 3 | **Blind shots and side out-of-bounds.** St Andrews' drive over the sheds with OB along the hotel is played as an open fairway; Pebble's blind drive has no aiming rock | St Andrews, Pebble | **can't express yet**: a blind-shot primitive (what the player sees from the tee) and an OB line | yes: St Andrews' first shot is not the real one | design the two primitives once, generically |
 | 4 | **Buildings and backdrops.** Riviera's hedge and houses on the hill (its signature view), St Andrews' hotel and sheds. The game has one building, a red-roofed `clubhouse`, one per hole | Riviera, St Andrews | **can't express yet**: a building prop (size, colour, count, on raised ground) and a hedge | no (look only) | one generic prop, then place from the photos |
-| 5 | **Deep bunkers in traced shapes.** A traced bunker's walls are steeper than an ellipse's at the same depth, and the ball model bounces off steep sand faces, so Riviera's front and middle bunkers are shallower than the real ones to pass the hop guard | Riviera now; St Andrews' Road Hole Bunker when traced. **The random-shot hop guard (`tests/ball.test.js`, under 3.5 yd) hid this on four holes:** it drew every hole's 600 shots from one stream, so it passed at its one seed by luck. Over ten seeds, each hole on its own stream (and counting dry ground only): St Andrews up to 7.9 yd, Augusta 12 up to 5.1, Pinehurst up to 5.5, Riviera up to 4.8, all off steep sand or banks; Sawgrass under 1.7 in every seed. **Measured since:** none of those hops starts on sand (it barely bounces); every one is a bounce on a grass lip, bank or falloff of 14–57°, where the bounce keeps its speed along the face and an uphill face sends it up. A rule that let steep faces grab that run cut the hops but also kept Riviera's wedge in its middle bunker and stopped run-ups onto Augusta 13's green, so it was not kept. The lever is the bunkers' shape: rebuild them from lidar (`lidar.py build`) with real depths and lips set into the land, then re-measure. **Done for Augusta 12, Augusta 13, Pebble and Pinehurst (2026-10-20)**: bunkers 0.4–0.55 yd deep, lips 0.25; highest hop over ten seeds, counted from the first touchdown (a lip graze at launch is not a hop): Augusta 12 5.34 → 3.05, Augusta 13 3.36 → 2.63, Pebble 3.87 → 2.66, Pinehurst 2.72 → 3.21 (a drive off the fairway bunker's lip). St Andrews' 4.76 (the guard's own seed) is a ball rolling into a 31° grass bank at (15, 450), not its bunker: still open | **can't express yet**: a sand face that takes the pace off a ball (plugging, or a soft lip) | yes: recovery from the sand | a BallModel change with its own tests |
+| 5 | **Deep bunkers in traced shapes.** A traced bunker's walls are steeper than an ellipse's at the same depth, and the ball model bounces off steep sand faces, so Riviera's front and middle bunkers are shallower than the real ones to pass the hop guard | Riviera now; St Andrews' Road Hole Bunker when traced. **The random-shot hop guard (`tests/ball.test.js`, under 3.5 yd) hid this on four holes:** it drew every hole's 600 shots from one stream, so it passed at its one seed by luck. Over ten seeds, each hole on its own stream (and counting dry ground only): St Andrews up to 7.9 yd, Augusta 12 up to 5.1, Pinehurst up to 5.5, Riviera up to 4.8, all off steep sand or banks; Sawgrass under 1.7 in every seed. **Measured since:** none of those hops starts on sand (it barely bounces); every one is a bounce on a grass lip, bank or falloff of 14–57°, where the bounce keeps its speed along the face and an uphill face sends it up. A rule that let steep faces grab that run cut the hops but also kept Riviera's wedge in its middle bunker and stopped run-ups onto Augusta 13's green, so it was not kept. The lever is the bunkers' shape: rebuild them from lidar (`lidar.py build`) with real depths and lips set into the land, then re-measure. **Done for Augusta 12, Augusta 13, Pebble and Pinehurst (2026-10-20)**: bunkers 0.4–0.55 yd deep, lips 0.25; highest hop over ten seeds, counted from the first touchdown (a lip graze at launch is not a hop): Augusta 12 5.34 → 3.05, Augusta 13 3.36 → 2.63, Pebble 3.87 → 2.66, Pinehurst 2.72 → 3.21 (a drive off the fairway bunker's lip). St Andrews 4.76 → 2.63 (the guard's own seed was a ball rolling into the old bunker's 31° grass lip at (15, 450)); the Road Hole bunker is deepened on purpose to stand in for its revetted face (its spec's §5). **The guard passes again** | **can't express yet**: a sand face that takes the pace off a ball (plugging, or a soft lip) | yes: recovery from the sand | a BallModel change with its own tests |
 | 6 | Small things that are expressible now: Sawgrass' walkway (a band island), the side of Augusta No. 12's Hogan Bridge (data, to confirm), Riviera's cart path (a `cover` band) and its trees where the photos have them (tree zones) | Sawgrass, Augusta 12, Riviera | **expressible now** | no | do with each hole's photos |
 | 7 | Cosmetic primitives: a sycamore tree type; a per-hole switch for the rocks scattered in every hole's rough | Riviera (the rocks: every hole) | **can't express yet** | no | when convenient |
 
